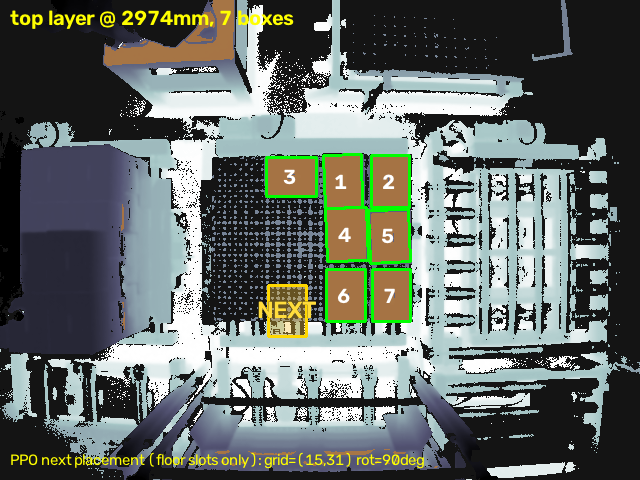
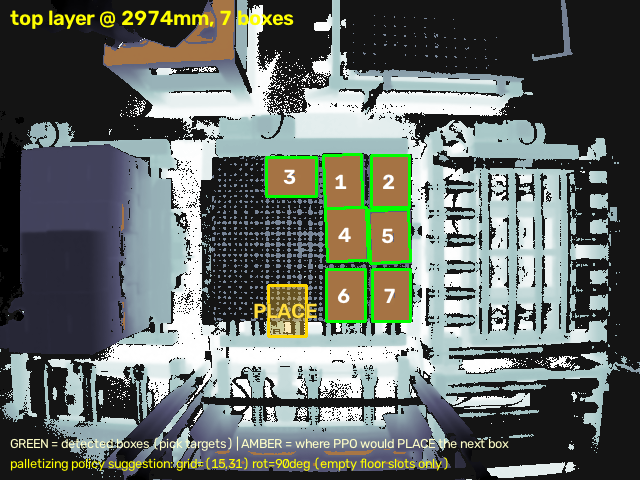
데모 라벨 명확화: NEXT→PLACE + 범례(초록=픽 대상/앰버=적재 제안) — 픽킹·적재 의미 혼동 제거

Changed region(s): [[0.0, 0.9062, 0.8125, 1.0], [0.375, 0.625, 0.5, 0.6875]]

diff --git a/tools/perception_to_policy.py b/tools/perception_to_policy.py
@@ -115,10 +115,12 @@ def suggest_and_render(session_name, model, floor_only=True):
     img = cv2.addWeighted(overlay, 0.35, img, 0.65, 0)
     cv2.polylines(img, [pix], True, (0, 215, 255), 2)
     cx, cy = pix.mean(axis=0).astype(int)
-    cv2.putText(img, "NEXT", (cx - 30, cy + 8), cv2.FONT_HERSHEY_SIMPLEX, 0.8, (0, 0, 0), 4)
-    cv2.putText(img, "NEXT", (cx - 30, cy + 8), cv2.FONT_HERSHEY_SIMPLEX, 0.8, (60, 220, 255), 2)
-    cv2.putText(img, f"PPO next placement (floor slots only): grid=({gx},{gy}) rot={90*int(rot)}deg",
-                (10, 465), cv2.FONT_HERSHEY_SIMPLEX, 0.5, (0, 255, 255), 1)
+    cv2.putText(img, "PLACE", (cx - 34, cy + 8), cv2.FONT_HERSHEY_SIMPLEX, 0.72, (0, 0, 0), 4)
+    cv2.putText(img, "PLACE", (cx - 34, cy + 8), cv2.FONT_HERSHEY_SIMPLEX, 0.72, (60, 220, 255), 2)
+    cv2.putText(img, "GREEN = detected boxes (pick targets) | AMBER = where PPO would PLACE the next box",
+                (10, 448), cv2.FONT_HERSHEY_SIMPLEX, 0.45, (200, 255, 255), 1)
+    cv2.putText(img, f"palletizing policy suggestion: grid=({gx},{gy}) rot={90*int(rot)}deg (empty floor slots only)",
+                (10, 468), cv2.FONT_HERSHEY_SIMPLEX, 0.45, (0, 255, 255), 1)
     cv2.imwrite(str(out_path), img)
     return session_name, (int(gx), int(gy), int(rot)), len(cur)
 
